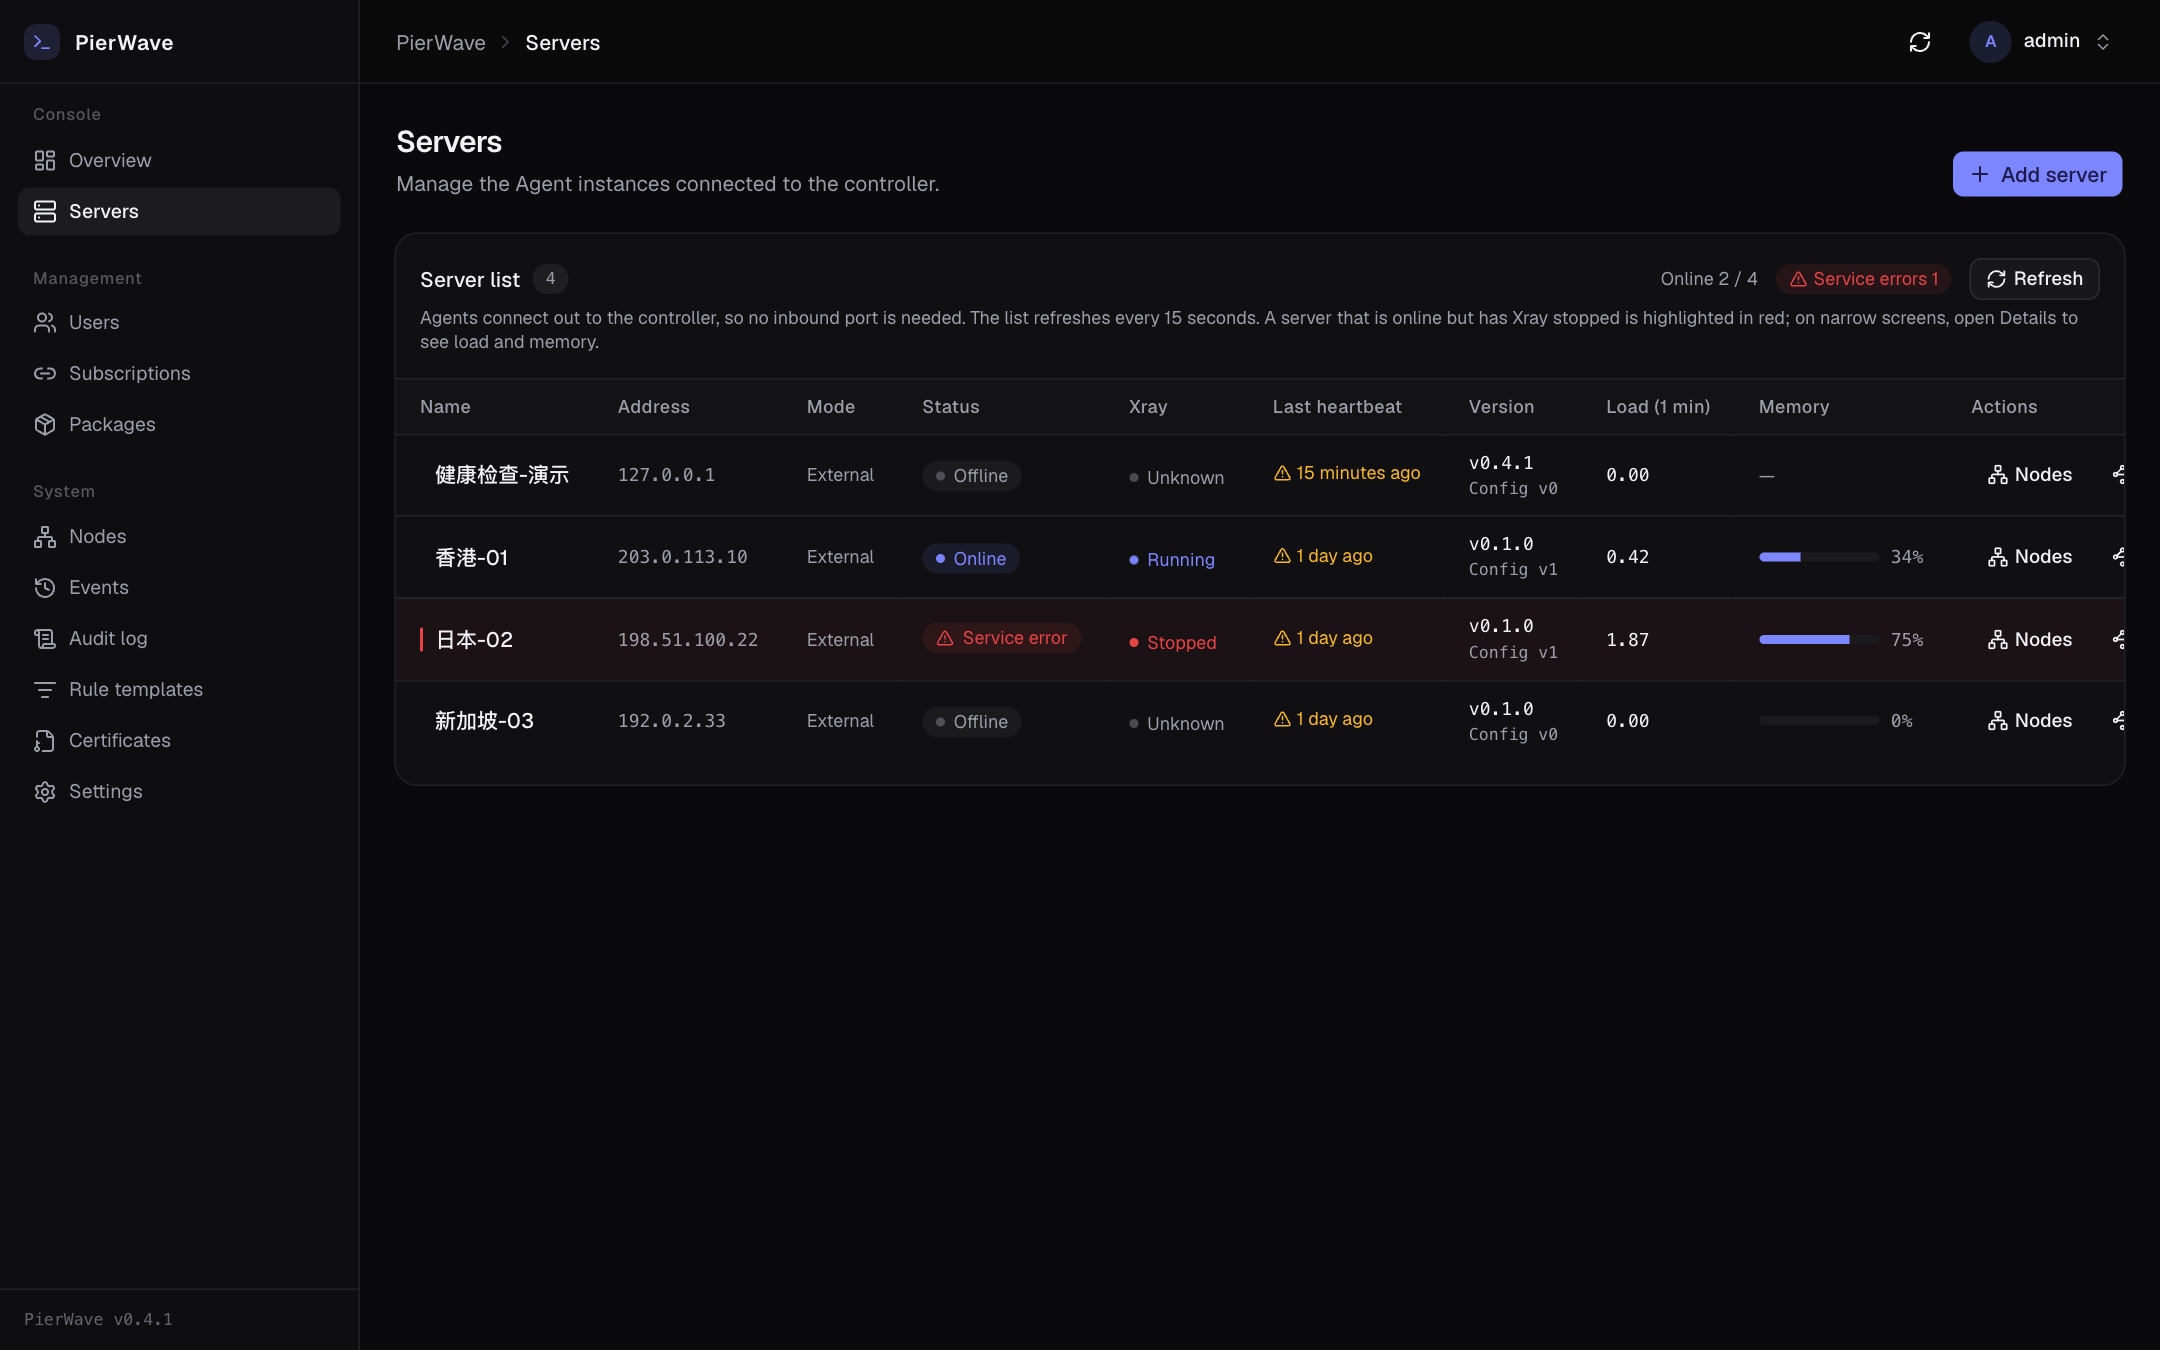
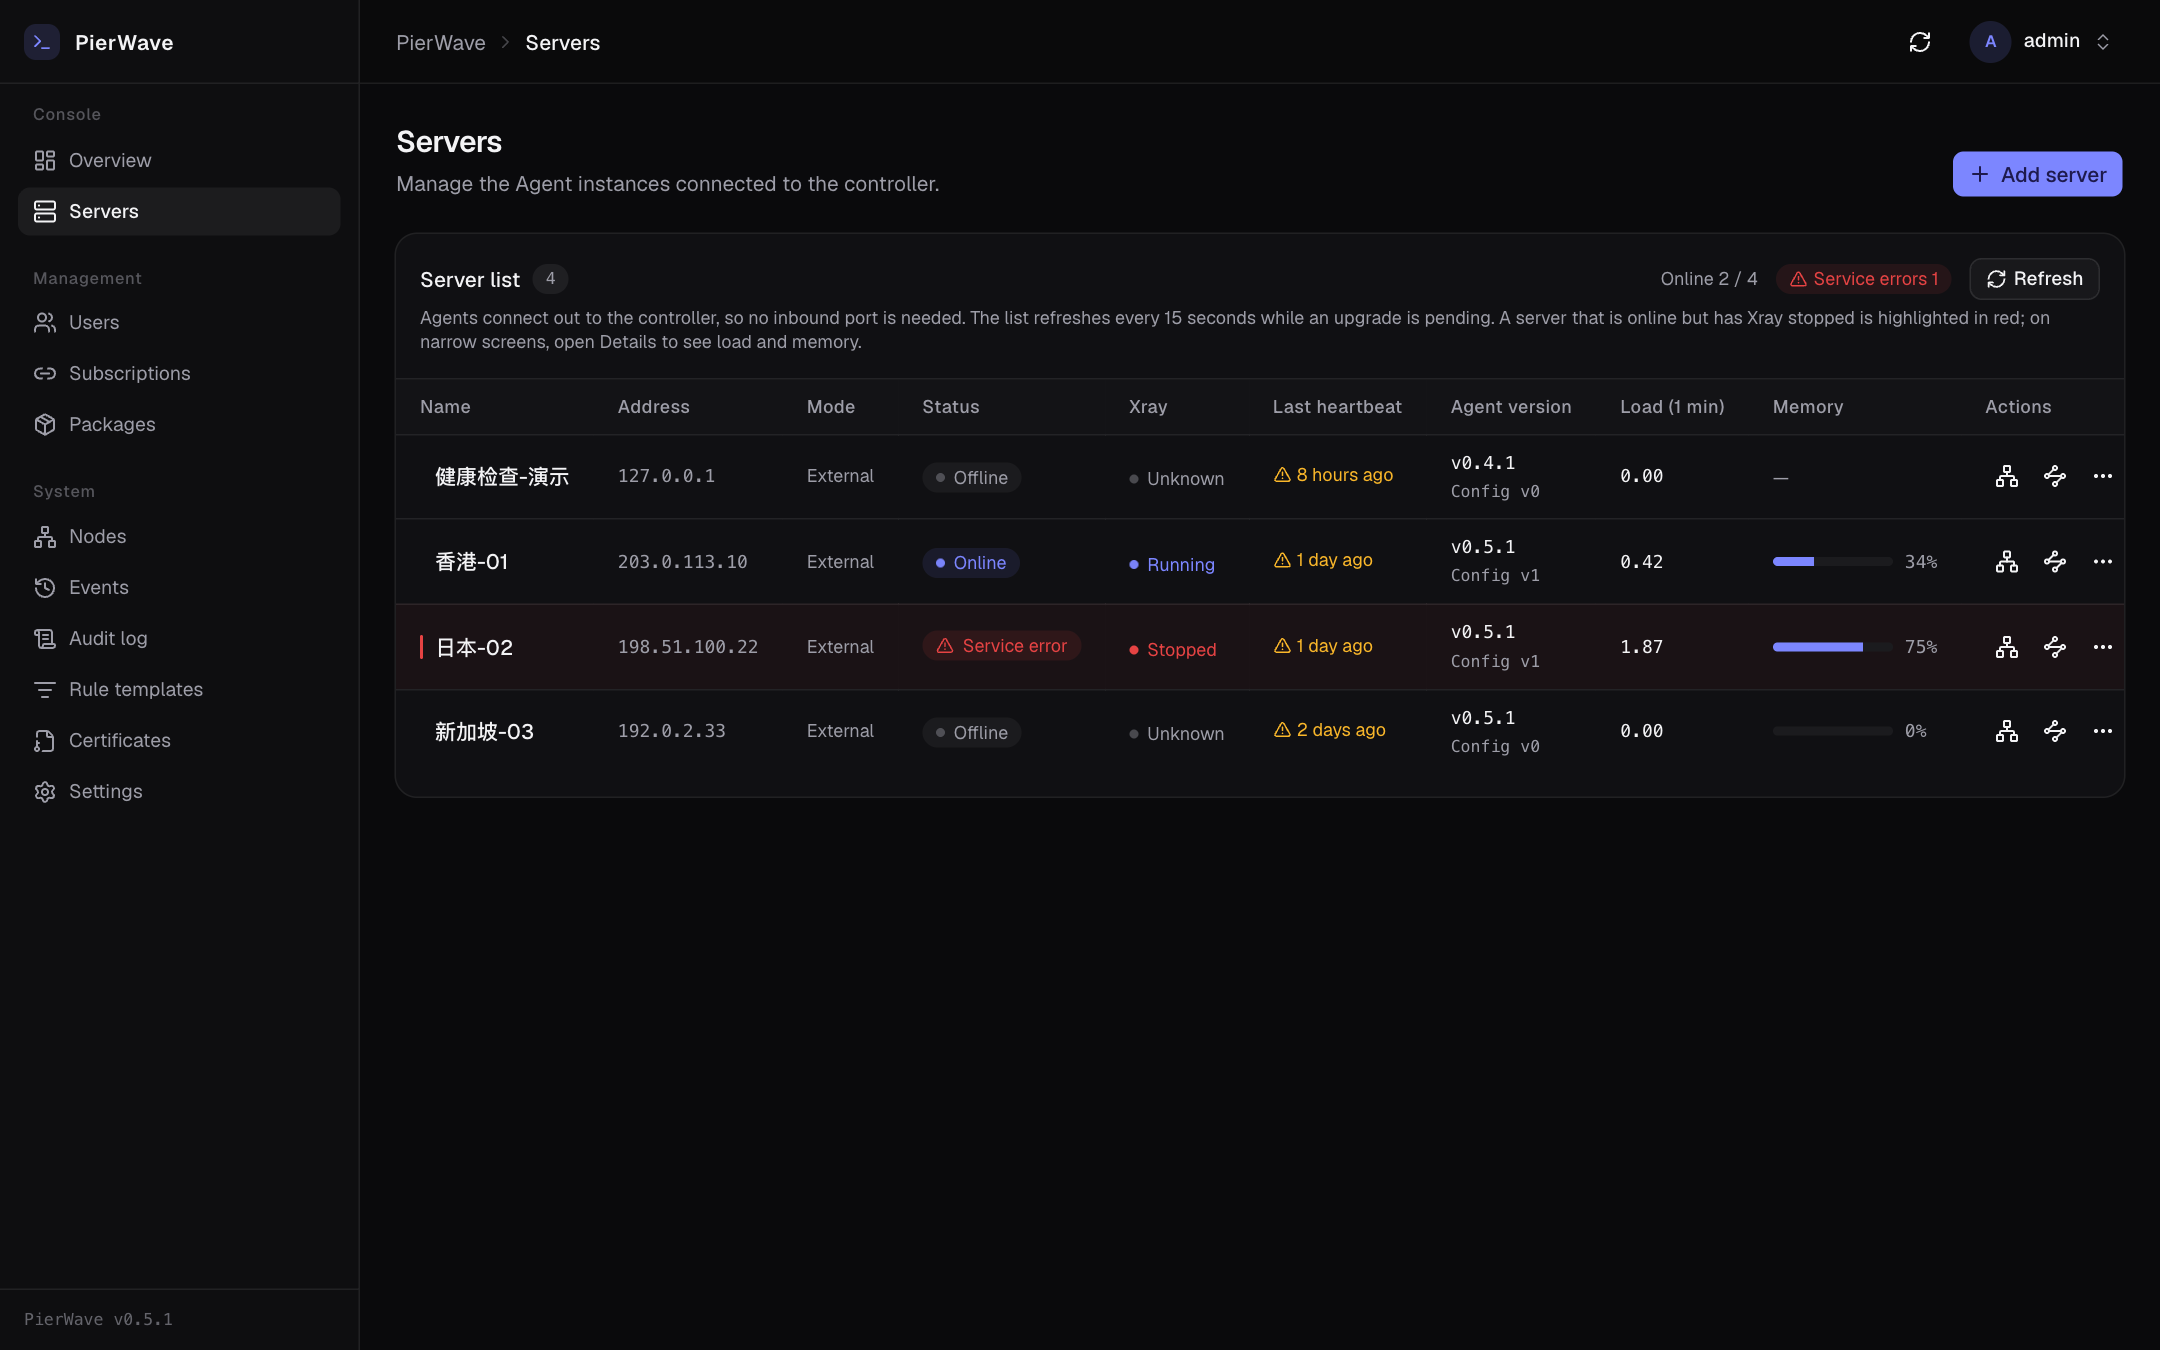
fix(web): keep server row actions inside the table; tighten upgrade dialog copy

diff --git a/web/src/pages/Servers.tsx b/web/src/pages/Servers.tsx
@@ -74,11 +74,6 @@ import {
   TableHeader,
   TableRow,
 } from "@/components/ui/table";
-import {
-  Tooltip,
-  TooltipContent,
-  TooltipTrigger,
-} from "@/components/ui/tooltip";
 import type { CreateServerResponse, Server } from "@/lib/api";
 import {
   displayAgentVersion,
@@ -338,51 +333,6 @@ function VersionCell({ server }: { server: Server }) {
         {t("servers.configVersion", { version: server.config_version })}
       </span>
     </div>
-  );
-}
-
-/**
- * P4：行内的「升级 Agent」入口。
- *
- * 未开启「允许下发升级」时保留按钮但禁用，并用 tooltip 说明去哪里开启；
- * 直接隐藏会让管理员不知道有这个能力，也可能误以为升级按钮丢了。
- */
-function AgentUpgradeAction({
-  server,
-  onOpen,
-}: {
-  server: Server;
-  onOpen: () => void;
-}) {
-  const allowed = Boolean(server.allow_agent_upgrade);
-  const button = (
-    <Button
-      variant="ghost"
-      size="sm"
-      onClick={onOpen}
-      disabled={!allowed}
-      title={
-        allowed
-          ? t("servers.agentUpgrade.action")
-          : t("servers.agentUpgrade.disabledHint")
-      }
-    >
-      <ArrowUpCircleIcon className="size-3.5" />
-      {t("servers.agentUpgrade.action")}
-    </Button>
-  );
-
-  if (allowed) return button;
-
-  return (
-    <Tooltip>
-      <TooltipTrigger asChild>
-        <span tabIndex={0} className="inline-flex rounded-md">
-          {button}
-        </span>
-      </TooltipTrigger>
-      <TooltipContent>{t("servers.agentUpgrade.disabledHint")}</TooltipContent>
-    </Tooltip>
   );
 }
 
@@ -885,30 +835,34 @@ export default function ServersPage() {
                       <TableCell className="px-4 py-2.5">
                         <div className="flex items-center gap-1">
                           <ServerDetailsPopover server={server} />
-                          <Button variant="ghost" size="sm" asChild>
+                          <Button
+                            variant="ghost"
+                            size="icon-sm"
+                            asChild
+                            title={t("servers.nodes")}
+                          >
                             <Link
                               to={`/servers/${server.id}/nodes`}
                               aria-label={t("servers.manageNodesAria", { name: server.name })}
                             >
-                              <NetworkIcon className="size-3.5" />
-                              {t("servers.nodes")}
+                              <NetworkIcon className="size-4" />
                             </Link>
                           </Button>
-                          <Button variant="ghost" size="sm" asChild>
+                          <Button
+                            variant="ghost"
+                            size="icon-sm"
+                            asChild
+                            title={t("servers.outbounds")}
+                          >
                             <Link
                               to={`/servers/${server.id}/outbounds`}
                               aria-label={t("servers.manageOutboundsAria", {
                                 name: server.name,
                               })}
                             >
-                              <WaypointsIcon className="size-3.5" />
-                              {t("servers.outbounds")}
+                              <WaypointsIcon className="size-4" />
                             </Link>
                           </Button>
-                          <AgentUpgradeAction
-                            server={server}
-                            onOpen={() => setUpgradeServerId(server.id)}
-                          />
                           <DropdownMenu>
                             <DropdownMenuTrigger asChild>
                               <Button
@@ -922,7 +876,20 @@ export default function ServersPage() {
                                 <MoreHorizontalIcon className="size-4" />
                               </Button>
                             </DropdownMenuTrigger>
-                            <DropdownMenuContent align="end" className="w-44">
+                            <DropdownMenuContent align="end" className="w-52">
+                              <DropdownMenuItem
+                                disabled={!Boolean(server.allow_agent_upgrade)}
+                                title={
+                                  Boolean(server.allow_agent_upgrade)
+                                    ? t("servers.agentUpgrade.action")
+                                    : t("servers.agentUpgrade.disabledHint")
+                                }
+                                onSelect={() => setUpgradeServerId(server.id)}
+                              >
+                                <ArrowUpCircleIcon className="size-3.5" />
+                                {t("servers.agentUpgrade.action")}
+                              </DropdownMenuItem>
+                              <DropdownMenuSeparator />
                               <DropdownMenuItem
                                 onSelect={() => setHistoryServerId(server.id)}
                               >

diff --git a/web/src/i18n/zh-CN.ts b/web/src/i18n/zh-CN.ts
@@ -252,9 +252,8 @@ const zhCN = {
       notReported: "未上报",
       latest: "最新版本",
       version: "版本号",
-      versionPlaceholder: "例如 v1.2.3",
-      versionHint:
-        "留空则使用最新版本。前端目前拿不到可用版本列表，需要指定版本时请手动填写。",
+      versionPlaceholder: "例如 v0.5.2",
+      versionHint: "留空则升级到最新版本；也可以手动填写要升级到的版本号。",
       pendingHint: "已有一个待升级目标 {version}；如果它仍在进行中，主控会拒绝新的升级。",
       warning:
         "升级会重启 Agent，连接会短暂中断；新版本启动失败会自动回滚。",

diff --git a/web/src/i18n/en.ts b/web/src/i18n/en.ts
@@ -261,9 +261,9 @@ const en = {
       notReported: "Not reported",
       latest: "Latest version",
       version: "Version",
-      versionPlaceholder: "e.g. v1.2.3",
+      versionPlaceholder: "e.g. v0.5.2",
       versionHint:
-        "Leave blank to use the latest version. The available release list is not exposed to the UI yet; enter a version manually if you need a specific one.",
+        "Leave empty to upgrade to the latest release, or type the version you want.",
       pendingHint:
         "A pending target {version} already exists; the controller will reject a new upgrade while it is still in progress.",
       warning:
